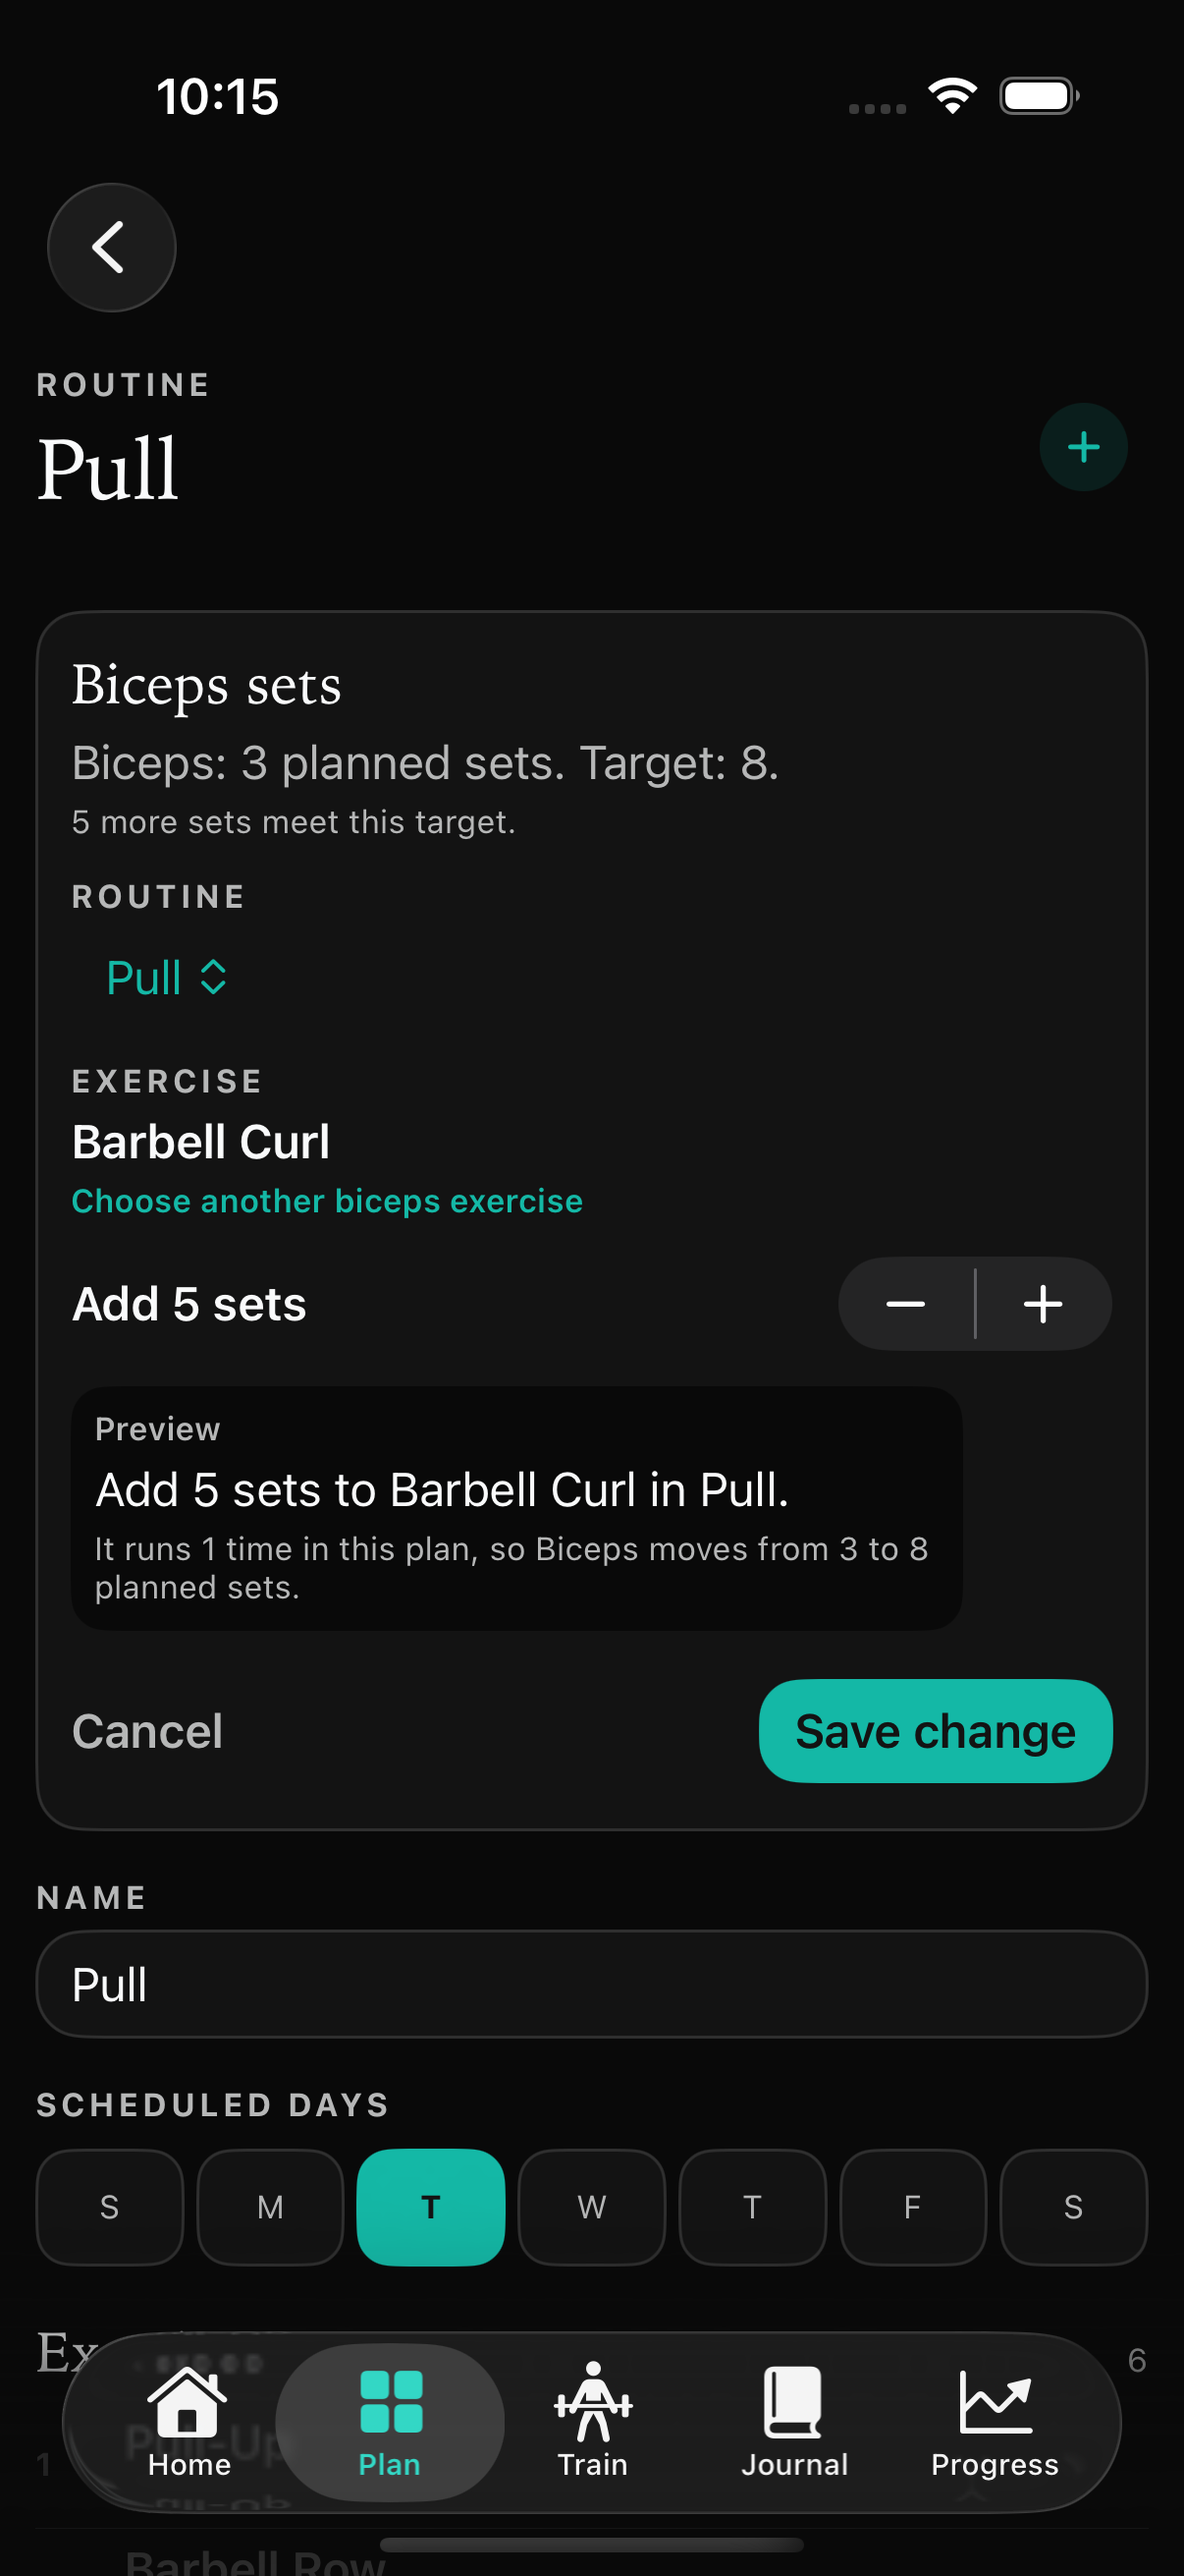
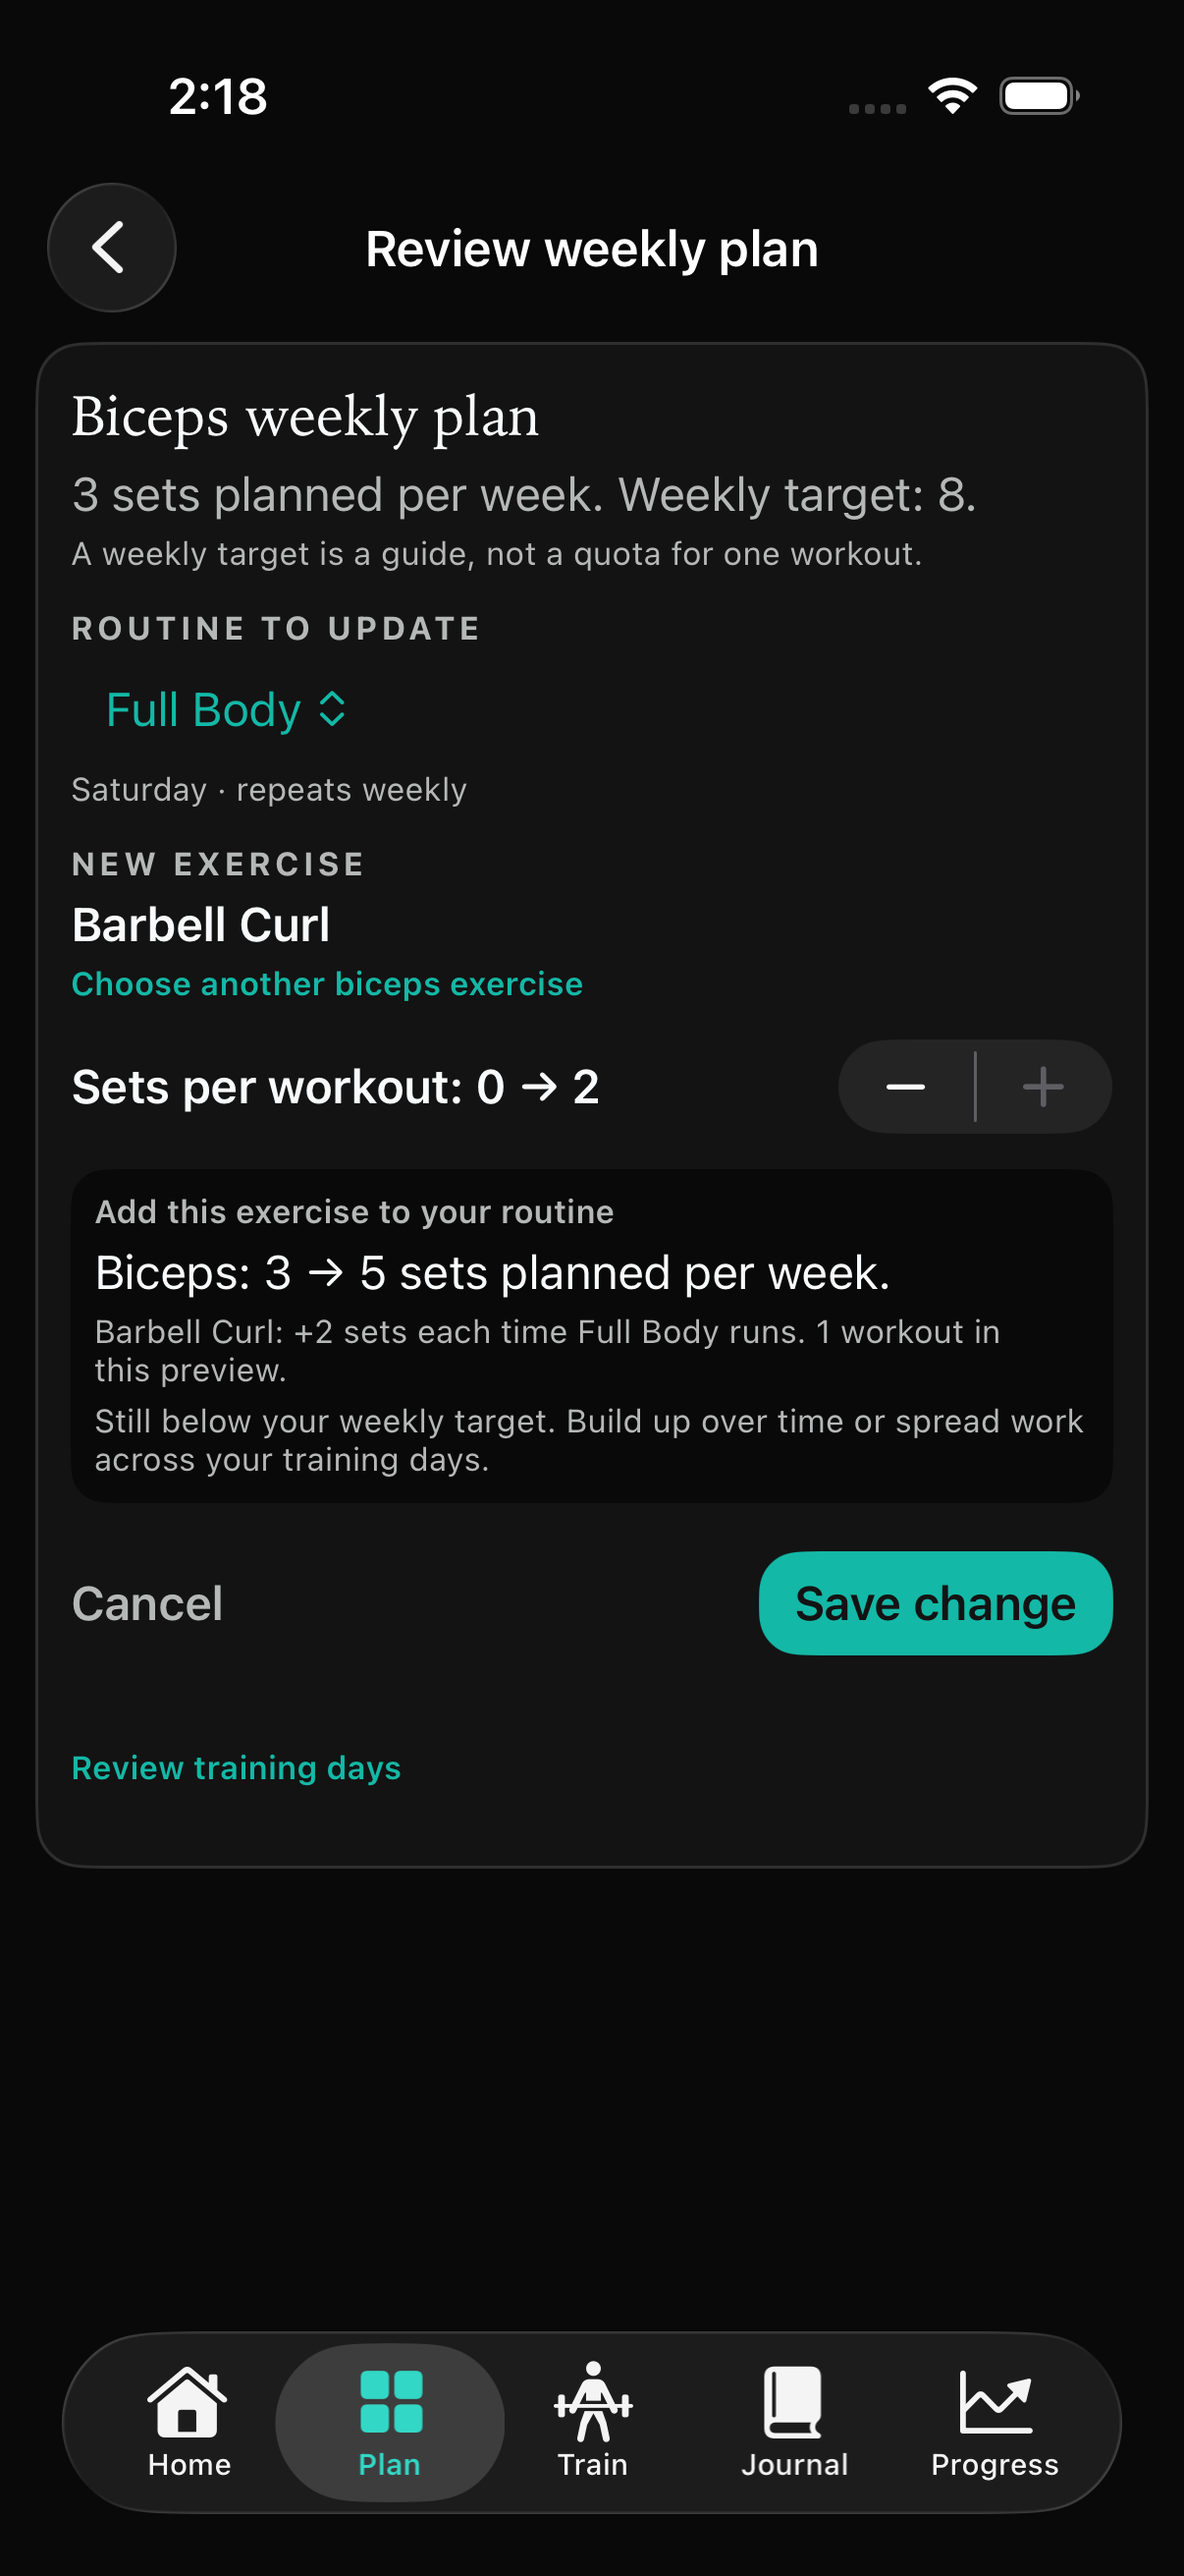
fix: show practical hybrid routine adjustments in Pro marketing

diff --git a/pro.html b/pro.html
@@ -70,14 +70,14 @@ FINISH: unreviewed and undocumented is unfinished; this build ends with the fini
 <section class="story">
 <div class="story-copy">
 <h2>Spot a gap.<br>Know what to change.</h2>
-<p>Compare your planned sets with your muscle targets. Review the gap, preview an editable routine change and see its effect before saving.</p>
-<p>Your plan changes only when you choose to save it.</p>
+<p>Add a suitable exercise to another scheduled routine, or make a small increase to an existing exercise. Preview the sets per workout and weekly effect before you save.</p>
+<p>Weekly targets are guides. Build up over time or spread work across your training days. Your plan changes only when you save.</p>
 </div>
 <figure class="detail-proof">
-<a class="screen-detail" href="assets/images/screenshots/adjustment.png" data-screen="adjustment" aria-label="View full screenshot: A preview of a routine change and its effect on the weekly target">
-<span class="detail-window detail-adjustment"><img src="assets/images/screenshots/adjustment.png" alt="A preview of a routine change and its effect on the weekly target" width="1206" height="2622" loading="lazy" decoding="async"></span>
+<a class="screen-detail" href="assets/images/screenshots/adjustment.png" data-screen="adjustment" aria-label="View full screenshot: A suggested new exercise in another scheduled routine, with its weekly effect">
+<span class="detail-window detail-adjustment"><img src="assets/images/screenshots/adjustment.png" alt="A suggested new exercise in another scheduled routine, with its weekly effect" width="1206" height="2622" loading="lazy" decoding="async"></span>
 <span class="detail-open">View full app screen <span aria-hidden="true">↗</span></span></a>
-<figcaption>Review the proposed change before saving.</figcaption></figure>
+<figcaption>A new exercise, two sets per workout, and a clear weekly preview.</figcaption></figure>
 </section>
 <section id="keep-moving" class="story reverse">
 <div class="story-copy">

diff --git a/index.html b/index.html
@@ -86,7 +86,7 @@ FINISH: unreviewed and undocumented is unfinished; this build ends with the fini
 <div>
 <h2>Make the next<br>set count.</h2>
 <p class="lead">Stack Pro adds a little direction to the work you already do.</p>
-<p>Get a suggested weight and rep target from your logged sets. See which plates to load. Review a gap in your planned week and preview a routine change before you save it.</p><a class="button primary" href="pro.html">See what Pro adds <span aria-hidden="true">→</span></a>
+<p>Get a suggested weight and rep target from your logged sets. See which plates to load. Review your planned week. Add an exercise where it fits, or preview a small set increase before saving.</p><a class="button primary" href="pro.html">See what Pro adds <span aria-hidden="true">→</span></a>
 </div>
 <div class="next-set-story"><h3>Your last session, made useful.</h3>
 <ol class="next-set-steps">

diff --git a/assets/styles.css b/assets/styles.css
@@ -185,8 +185,8 @@ dd { margin: 0 0 var(--space-l); color: var(--muted); }
 .detail-lock img { transform: translateY(-66%); }
 .detail-plates { aspect-ratio: 1206 / 750; }
 .detail-plates img { transform: translateY(-59%); }
-.detail-adjustment { aspect-ratio: 1206 / 1260; }
-.detail-adjustment img { transform: translateY(-23.4%); }
+.detail-adjustment { aspect-ratio: 1206 / 1600; }
+.detail-adjustment img { transform: translateY(-13.2%); }
 .detail-open { display: flex; justify-content: space-between; gap: var(--space-m); padding: var(--space-s) 0; font-size: .85rem; font-weight: 600; }
 .detail-proof figcaption { margin: 0; }
 .routine-story, .pro-marketing .story { padding: var(--space-xxl) 0; }

diff --git a/CHANGELOG.md b/CHANGELOG.md
@@ -1,3 +1,10 @@
+# Guided adjustment correction - September 6, 2026
+
+- Replaced the excessive curl-set recommendation with a fresh native capture of the corrected app flow. Shows sets per workout separately from the weekly projection.
+- Updated Pro copy to describe adding an exercise to another scheduled routine or previewing a small set increase, without implying a weekly target must be filled in one workout.
+- Verified all 40 page/viewport/appearance combinations, links, structured data and source-image hashes.
+- Coordinated with FitnessTracker v2.0.0 and the refreshed App Store collection and in-app Plan Insight scenes.
+
 # Layout refactor - September 6, 2026
 
 - Put readable set controls and the App Store badge in the first mobile screen.
